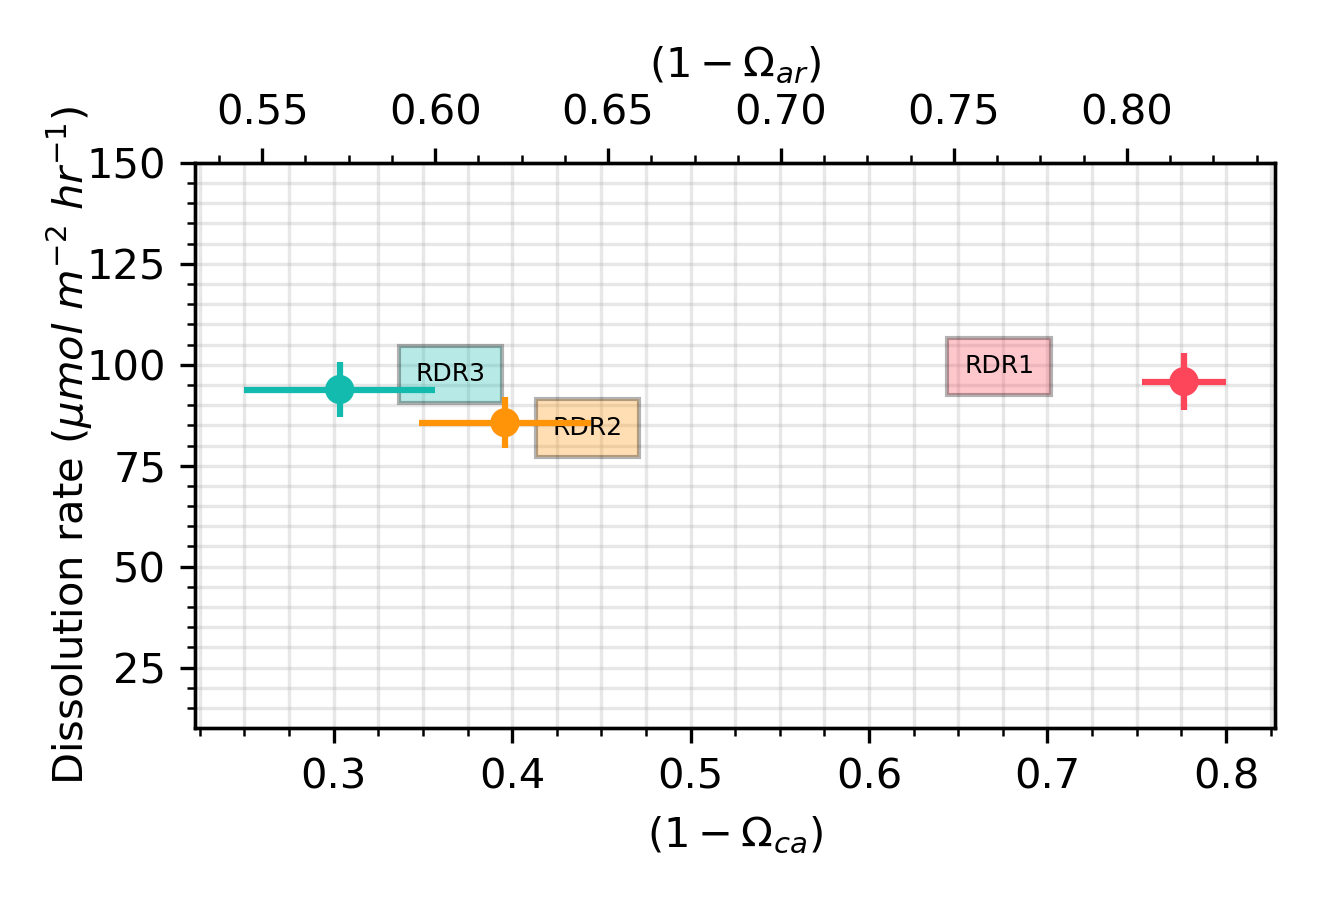
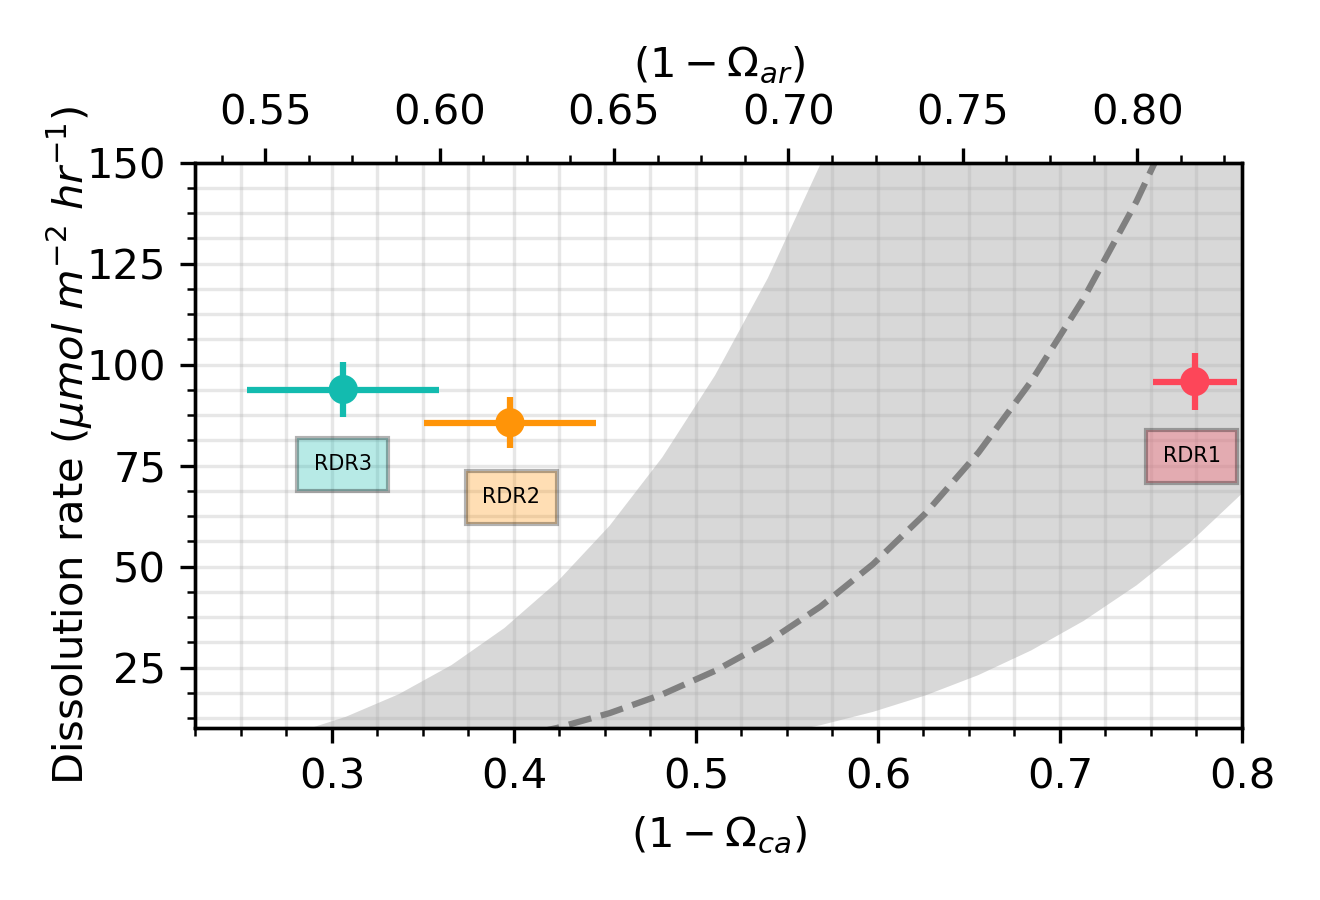
update

diff --git a/Experiment_1/RDR_rates.py b/Experiment_1/RDR_rates.py
@@ -184,23 +184,37 @@ ax1.grid(alpha=0.3, which='both', zorder=0)
 
 #Add calcite dissolution rate law from Naviaux 2019
 sat_ca = np.linspace(0.25, 0.8, 20)
-ax1.plot(sat_ca, (10**(-10.8)*sat_ca**4.7*3.6e13))
+ax1.plot(sat_ca, (10**(-10.8)*sat_ca**4.7*3.6e13), color='grey', linestyle='--')
+ax1.fill_between(x = sat_ca, 
+                 y1= (10**(-10.8-0.4)*sat_ca**(4.7+0.7)*3.6e13),
+                 y2= (10**(-10.8+0.4)*sat_ca**(4.7-0.7)*3.6e13),
+                 color='grey', alpha=0.3, edgecolor='none')
+
+# #Add aragonite dissolution rate law from 
+# sat_ar = np.linspace(0.54, 0.83, 20)
+# ax2.plot(sat_ar, (0.013*sat_ar**1.46*4.163e6), color='red', linestyle='--')
+# # ax2.fill_between(x = sat_ca, 
+# #                  y1= (10**(-10.8-0.4)*sat_ca**(4.7+0.7)*3.6e13),
+# #                  y2= (10**(-10.8+0.4)*sat_ca**(4.7-0.7)*3.6e13),
+# #                  color='grey', alpha=0.4)
 
 #Labels
 labels = ['RDR1', 'RDR2', 'RDR3']
-ax1.text(sat_states[0]-0.06, rates[0]+2, labels[0], fontsize=6, bbox=dict(facecolor=colors[0], alpha=0.3))
-ax1.text(sat_states[1]+0.016, rates[1]-3, labels[1], fontsize=6, bbox=dict(facecolor=colors[1], alpha=0.3))
-ax1.text(sat_states[2]+0.014, rates[2]+2, labels[2], fontsize=6, bbox=dict(facecolor=colors[2], alpha=0.3))
+ax1.text(sat_states[0]+0.075, rates[0]-20, labels[0], fontsize=5, ha='right', bbox=dict(facecolor=colors[0], alpha=0.3))
+ax1.text(sat_states[1]+0.008, rates[1]-20, labels[1], fontsize=5, ha='right', bbox=dict(facecolor=colors[1], alpha=0.3))
+ax1.text(sat_states[2]-0.01, rates[2]-20, labels[2], fontsize=5, ha='right', bbox=dict(facecolor=colors[2], alpha=0.3))
 
 ax1.set_xlabel(r'$(1-Ω_{ca})$')
 ax2.set_xlabel(r'$(1-Ω_{ar})$')
 ax1.set_ylabel('Dissolution rate ($μmol$ $m^{-2}$ $hr^{-1}$)', va='center', rotation='vertical')
 
 ax1.xaxis.set_minor_locator(AutoMinorLocator(4))
-ax1.yaxis.set_minor_locator(AutoMinorLocator(5))
+ax1.yaxis.set_minor_locator(AutoMinorLocator(4))
 ax2.xaxis.set_minor_locator(AutoMinorLocator(4))
 
 ax1.set_ylim(10, 150)
+ax1.set_xlim(0.225, 0.8)
+ax2.set_xlim(0.53, 0.83)
 
 plt.tight_layout()
 plt.savefig("Figures/rate_vs_omega.png")
